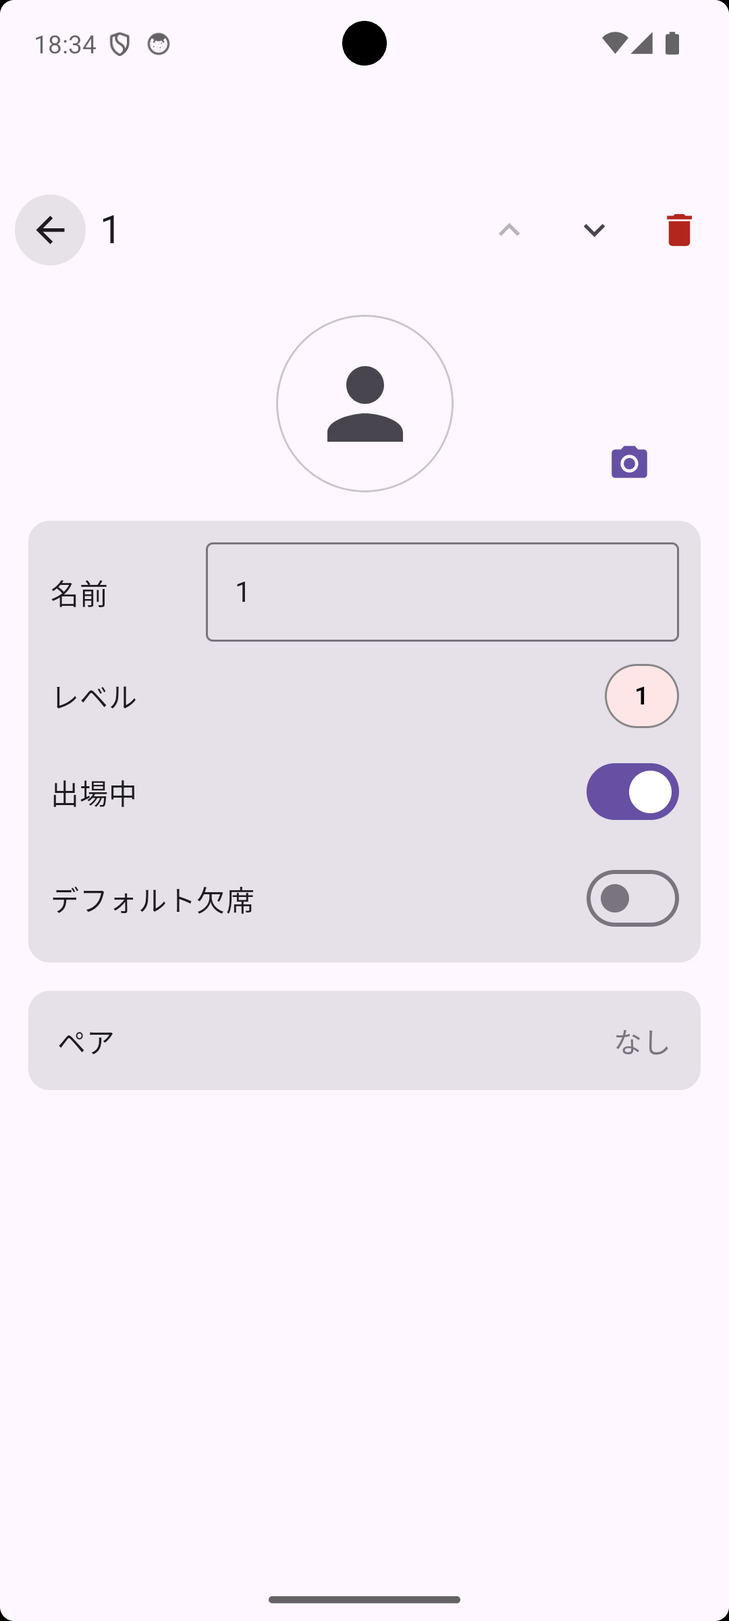
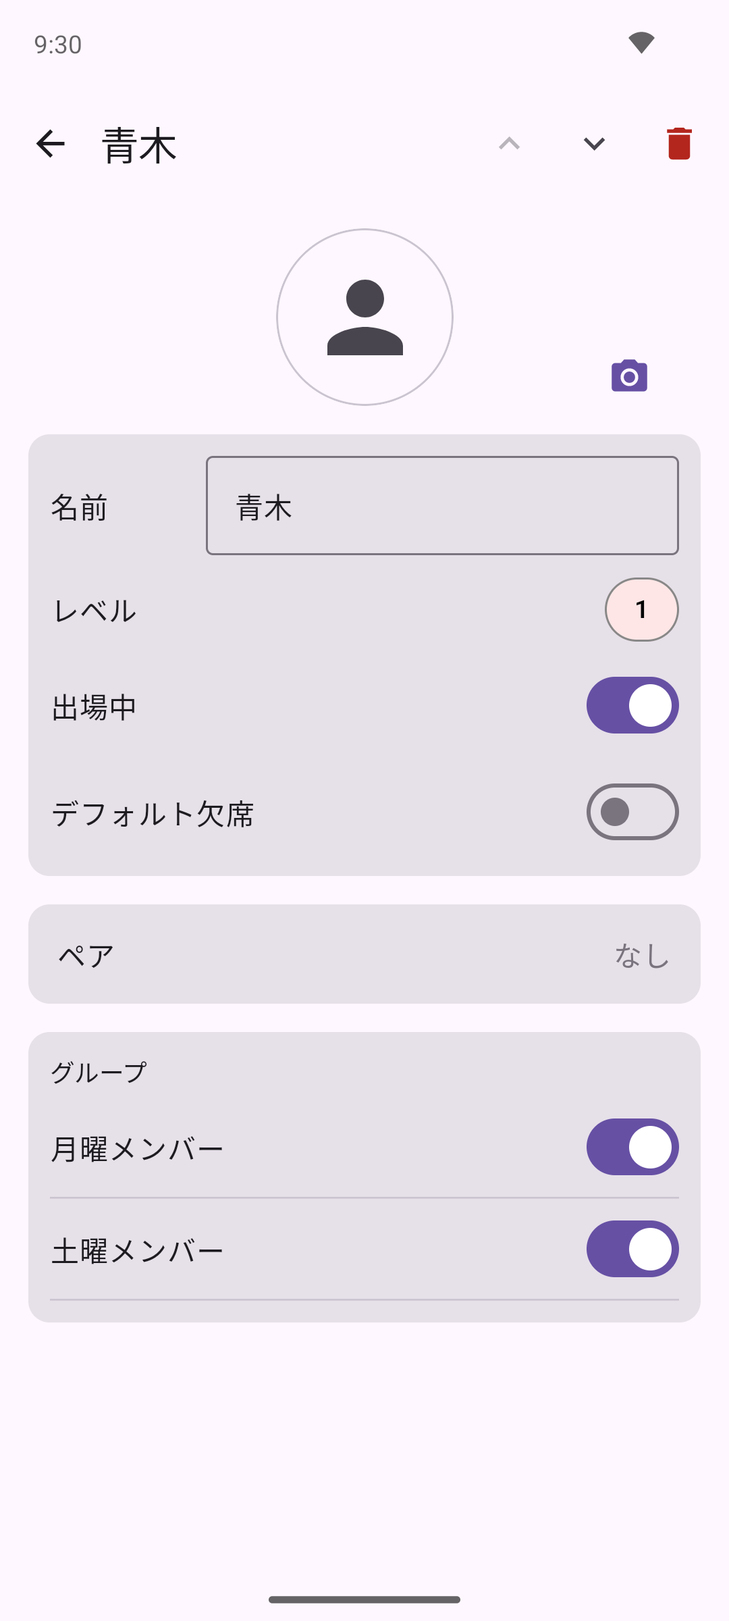
PairGen 1.2.26: プレイヤータブのヘルプをメンバー管理の見直しに合わせて書き直す
「メンバーを保存・読み込む」を「メンバーを登録・読み込む」に書き直し、iOS と同じく最後
（13章）に移した。シャッフルと並べ替えが11・12章に繰り上がる。

- 登録済みと未登録の違い（グループ所属＝登録・自動保存、未登録はリセットで消える、名前が
  濃い青、メニューの赤い点）の節を新設。1.2.25 以前のメンバーが Group1 に入ることも書いた
- ⋮ メニューを5項目（グループ読込・グループ管理・メンバー管理・書き出し・読み込み）に
- グループ管理を、統合後の1画面（登録するプレイヤー → グループ → 新しいグループの並び、
  行タップで登録、鉛筆で改名、ゴミ箱で削除）に合わせて書き直した
- メンバー管理（棚卸し）の節を新設。絞り込み、ゴミ箱アイコンでの個別削除、選択して一括削除、
  すべて削除
- ファイル操作を JSON から CSV に。列の意味、複数グループの書き方、表計算ソフトでの編集
  （Android では Google スプレッドシート）、読み込めない場合と警告だけ出る場合
- 出場状態の一括反転が下部バーのアイコンに移ったことを3章に、リセットで未登録のプレイヤーが
  失われることを2章に追記

逆引きは「メンバー・出場管理」と「メンバーの登録・保存」に分け、症状から引ける項目を
追加した（名前が濃い青、⋮ に赤い点、Group1 ができていた など）。ホームのメンバー管理の
告知から「登録済みと未登録」へリンクした。

スクリーンショットは14枚（差し替え11、新規3: players-unregistered / players-member-db /
players-member-select）。一覧の見出しが「無所属」のまま、下部バーに反転アイコンがない、
メニュー・グループ画面が旧版だったため、日本語名のデータで撮り直した。

diff --git a/players-tab.html b/players-tab.html
@@ -37,39 +37,43 @@
   <li><a href="#fixed-pair">8. 固定ペアを設定する</a></li>
   <li><a href="#status">9. 現在の出場状況を確認する</a></li>
   <li><a href="#pin">10. ピン留めで優先出場させる</a></li>
-  <li><a href="#save-load">11. メンバーを保存・読み込む</a>
+  <li><a href="#shuffle">11. 開始順をシャッフルする</a></li>
+  <li><a href="#reorder">12. 表示順を並べ替える</a></li>
+  <li><a href="#save-load">13. メンバーを登録・読み込む</a>
     <ul>
-      <li><a href="#groups">グループについて</a></li>
+      <li><a href="#registered">登録済みと未登録</a></li>
+      <li><a href="#groups">グループを作る・直す</a></li>
+      <li><a href="#member-db">メンバー管理（棚卸し）</a></li>
       <li><a href="#file-operations">ファイルへの書き出し・読み込み</a></li>
     </ul>
   </li>
-  <li><a href="#shuffle">12. 開始順をシャッフルする</a></li>
-  <li><a href="#reorder">13. 表示順を並べ替える</a></li>
 </ul>
 </nav>
 
 <h2 id="add-remove">1. プレイヤーを追加・削除する</h2>
 <p>プレイヤータブ下部の <code>＋</code> / <code>－</code> ボタンをタップするだけで、プレイヤーの人数を簡単に増減できます（最低4人）。追加されたプレイヤーには、初期状態で「1」「2」「3」…という数字がそのまま名前として割り当てられます。特定の1人だけを削除したい場合は、編集画面右上のゴミ箱アイコン、またはリストの各行右端のゴミ箱アイコンから削除できます。</p>
 <div class="ss"><img src="images/players-plusminus.png" alt="プレイヤータブ・+/- ボタン"></div>
-<div class="note">⚠ 編集画面・一覧どちらのゴミ箱アイコンも、保存済みのメンバーデータベースから該当プレイヤーを完全に削除します（写真も削除されます）。この操作は元に戻せません。あくまで今回だけ欠席させたい場合は、削除ではなく行右端のトグルで「休憩」状態にしてください。</div>
+<div class="note">⚠ 編集画面・一覧どちらのゴミ箱アイコンも、そのプレイヤーの登録を完全に削除します（写真も削除されます）。この操作は元に戻せません。あくまで今回だけ欠席させたい場合は、削除ではなく行右端のトグルで「休憩」状態にしてください。</div>
 <div class="tip">💡 画面上部のテキストフィールドに名前を入力して <code>追加</code> をタップすると、名前付きでプレイヤーを追加することもできます。カンマ区切りで複数名を一度に入力できます（例：<code>Alice, Bob, Carol, Dave</code>）。</div>
 <div class="tip">💡 プレイヤーの追加は、組み合わせ生成後や試合の途中からでも自由に行えます。飛び入り参加にもそのまま対応できます。</div>
 <div class="note">⚠ 一度組み合わせを生成すると、既存の組み合わせとの整合性を保つため、下部の <code>－</code> ボタンはその生成時点の人数より減らせなくなり、一覧各行のゴミ箱アイコンも無効化されます（<a href="game-tab.html#reset-scores">試合タブ右上の <code>↻</code> アイコンで試合結果をリセット</a>すると再び自由に増減できます）。編集画面右上のゴミ箱アイコンからの削除は、この制限に関わらず常に行えます。</div>
 <div class="tip">💡 編集画面右上のゴミ箱アイコンで削除すると、一覧に戻らずそのまま次のプレイヤー（末尾を削除した場合は前のプレイヤー）の編集画面に切り替わります。複数人まとめて削除したいときに便利です。</div>
 
 <h2 id="reset-players">2. プレイヤーのリセット</h2>
-<p>プレイヤータブ右上の <code>↻</code>（リセット）アイコンをタップすると、確認アラート「プレイヤーをリセット」が表示されます。<strong>リセット</strong> を選ぶと、現在登録されているプレイヤーと試合結果がすべて削除され、初期状態の4人にリセットされます。</p>
-<div class="note">⚠ この操作は元に戻せません。<code>⋮</code> メニューの <strong>保存</strong> で保存済みのメンバーデータベース自体は影響を受けませんが、現在のプレイヤーリストと試合結果は失われます。</div>
+<p>プレイヤータブ右上の <code>↻</code>（リセット）アイコンをタップすると、確認アラート「プレイヤーをリセット」が表示されます。<strong>リセット</strong> を選ぶと、現在のプレイヤーと試合結果がすべて削除され、初期状態の4人にリセットされます。</p>
+<div class="note">⚠ この操作は元に戻せません。グループに登録済みのメンバーは登録が残るので <strong>グループ読込</strong> で戻せますが、<strong>どのグループにも入れていないプレイヤーは保存されていないため、そのまま失われます</strong>。未登録のプレイヤーがいる場合は、確認アラートにその人数が表示されます。</div>
 <div class="tip">💡 試合タブの <code>↻</code> ボタン（ゲーム情報を削除）とは異なり、こちらはプレイヤー自体も削除されます。試合結果だけを消したい場合は試合タブのリセットをご利用ください。</div>
 
 <h2 id="rest-toggle">3. 出場状態を変更する（休憩・復帰）</h2>
 <p>プレイヤータブで各プレイヤー行右端のトグルが<strong>出場状態</strong>を表します。トグルをオフにすると休憩中となり、そのプレイヤーは次の組み合わせから除外されます。復帰するときはトグルをオンに戻してください。</p>
 <div class="ss"><img src="images/players-toggle.png" alt="出場状態トグル"></div>
+<div class="tip">💡 プレイヤータブ下部、シャッフルアイコンの左にあるトグルの形のアイコンをタップすると、<strong>全員の出場・休憩状態がまとめて反転</strong>します。「今日は少人数なので、一度全員を休憩にしてから来た人だけオンにする」といった使い方ができます。試合の途中でも使えます。</div>
 
 <h2 id="rename">4. 名前を変更する</h2>
 <p>プレイヤータブでプレイヤーの行をタップすると編集画面が開きます。<strong>名前</strong> フィールドを編集してください。フィールドをタップして入力中は、右端に表示される <code>×</code> ボタンで入力内容を一括消去できます。</p>
 <div class="ss"><img src="images/player-edit-main.png" alt="プレイヤー編集画面"></div>
 <div class="tip">💡 編集画面上部のツールバーにある <code>▲</code> / <code>▼</code> アイコンで、一覧に戻らずそのまま前後のプレイヤーの編集画面に切り替えられます。複数人まとめて名前を確認・変更したいときに便利です。</div>
+<div class="tip">💡 グループに登録済みのプレイヤーは、変更した名前が自動的に保存されます（<a href="#registered">登録済みと未登録</a>）。</div>
 
 <h2 id="level">5. レベルを設定する</h2>
 <p>各プレイヤーには <strong>1・2・3</strong> のレベルを設定できます。プレイヤータブのリスト左端にあるレベルバッジをタップするたびに 1→2→3→1 と切り替わります。編集画面の <strong>レベル</strong> からも変更できます。</p>
@@ -87,10 +91,10 @@
 <div class="tip">💡 試合の途中で新しく追加したプレイヤーは、W が 0 のままでも次の組み合わせで最優先に出場します。一度も出場していないプレイヤーは、待機回数に関わらず優先されるためです。</div>
 
 <h2 id="default-absent">7. デフォルト欠席を設定する</h2>
-<p>毎回欠席することが多いメンバーには、編集画面の <code>デフォルト欠席</code> をオンにしておくと、メンバーデータを読み込んだ際に自動的に休憩状態でリストに追加されます。</p>
+<p>毎回欠席することが多いメンバーには、編集画面の <code>デフォルト欠席</code> をオンにしておくと、グループを読み込んだ際に自動的に休憩状態でリストに追加されます。</p>
 
 <h2 id="fixed-pair">8. 固定ペアを設定する</h2>
-<p>編集画面の <strong>ペア</strong> セクションから、常に同じペアを組むプレイヤーを指定できます。固定されたペアはプレイヤー名の横に ♥ マーク付きで表示されます。</p>
+<p>編集画面の <strong>ペア</strong> セクションから、常に同じペアを組むプレイヤーを指定できます。固定されたペアはプレイヤー名の下に ♥ マーク付きで表示されます。</p>
 <div class="ss"><img src="images/players-pair.png" alt="固定ペア表示"></div>
 <div class="tip">💡 固定ペアはペアごとに色分けされるので、一覧や組み合わせ画面から一目で確認できます。</div>
 
@@ -106,78 +110,115 @@
 <div class="tip">💡 ピン留め中は行右端の出場状態トグルが無効化され、休憩状態に変更できません。休ませたい場合は、先にピンのアイコンをタップして解除してください。</div>
 <div class="tip">💡 ピン留めは保存されない一時的な指定です。アプリを再起動したり、メンバーを読み込み直したりするとリセットされます。</div>
 
-<h2 id="save-load">11. メンバーを保存・読み込む</h2>
-<p>プレイヤータブ左上の <code>⋮</code> メニューから以下の操作ができます。</p>
-<ul>
-  <li><strong>保存</strong> — 現在のプレイヤーリストをメンバーデータベースに保存</li>
-  <li><strong>読込</strong> — 保存したメンバーをグループ単位で読み込み</li>
-  <li><strong>グループ管理</strong> — グループの追加・削除・名前変更</li>
-  <li><strong>出場状態を反転</strong> — 全員の出場・休憩状態を一括反転</li>
-  <li><strong>ファイルに書き出し</strong> / <strong>ファイルから読み込み</strong> — メンバーデータベースをJSONファイルとして書き出し・読み込み（詳細は下記）</li>
-  <li><strong>DBを全消去</strong> — 保存したメンバーデータをすべて削除</li>
-</ul>
-<div class="ss"><img src="images/players-menu.png" alt="⋮ メニュー"></div>
-<div class="note">⚠ 「1」「2」のような数字だけの名前（名前を変更していない未命名のプレイヤー）は、<strong>保存</strong> をタップしてもメンバーデータベースには保存されません。誤って未命名のまま保存されてしまうのを防ぐためです。<strong>読込</strong> 実行時に見つかった場合も、読み込まずにデータベースから削除されます。名前を付けてから保存してください。</div>
-
-<h3 id="groups">グループについて</h3>
-<p>メンバーをグループに分類して保存しておくと、曜日や練習会ごとに異なるメンバーをすばやく読み込めます。</p>
-<p><strong>グループ名を作成する</strong> — <code>⋮</code> メニューの <strong>グループ管理</strong> を開き、<strong>グループ名</strong> フィールドに名前を入力して <code>追加</code> をタップします。</p>
-<div class="ss"><img src="images/players-group-add.png" alt="グループ管理画面でグループ名を入力"></div>
-<p><strong>プレイヤーにグループを設定する</strong> — プレイヤー編集画面の <strong>グループ</strong> セクションで、そのプレイヤーを所属させたいグループのトグルをオンにします（グループが1つも作成されていない場合、このセクションは表示されません）。</p>
-<div class="ss"><img src="images/players-group-assign.png" alt="プレイヤー編集画面のグループセクションでトグルをオン"></div>
-<p>グループを割り当てたら、<code>⋮</code> メニューの <strong>保存</strong> でメンバーデータベースに保存してください。</p>
-<div class="ss"><img src="images/players-group-select.png" alt="読み込むグループの選択画面"></div>
-
-<h3 id="file-operations">ファイルへの書き出し・読み込み</h3>
-<p><code>⋮</code> メニューの <strong>ファイルに書き出し</strong> / <strong>ファイルから読み込み</strong> から、メンバーデータベース全体（すべてのグループ・すべてのプレイヤー）をJSONファイルとして書き出したり、書き出したファイルから読み込んだりできます。機種変更時のデータ移行や、パソコンなどでファイルを直接編集して一括登録したい場合に利用できます。</p>
-<ul>
-  <li><strong>ファイルに書き出し</strong> — メンバーデータベース全体を <code>pairgen.json</code>（ファイル名は保存時に変更可能）として書き出し、保存先を選択する画面が開きます（端末の「ダウンロード」フォルダやGoogleドライブなど、標準のファイル選択画面から選べます）。</li>
-  <li><strong>ファイルから読み込み</strong> — JSONファイルを選択すると内容を確認するダイアログが表示され、<strong>置き換え</strong> を選ぶと保存済みのメンバーデータベースと現在のプレイヤーリストが選択したファイルの内容に<strong>すべて置き換わります</strong>（既存データとのマージは行われません）。</li>
-</ul>
-<div class="note">⚠ 読み込んだファイルのJSONに構文の誤りや項目の不足がある場合は、「インポートに失敗しました」というエラーメッセージが表示され、読み込みは行われません。</div>
-
-<h4>pairgen.json の中身について</h4>
-<p><code>pairgen.json</code> はただのテキストファイルなので、パソコン・スマートフォンのテキストエディタアプリ（メモ帳など）や、JSONを編集できるアプリで開いて直接編集できます。内容は次のような形式です。</p>
-<div class="tip">💡 ファイル名は <code>pairgen.json</code> がデフォルトですが、拡張子が <code>.json</code> であれば名前は自由に変更できます（読み込み時もファイル名は問いません）。</div>
-<pre><code>{
-  "groups": [
-    "月曜メンバー",
-    "土曜メンバー"
-  ],
-  "players": [
-    {
-      "name": "田中",
-      "groups": [
-        "月曜メンバー"
-      ]
-    },
-    {
-      "name": "鈴木",
-      "groups": [
-        "月曜メンバー",
-        "土曜メンバー"
-      ]
-    },
-    {
-      "name": "佐藤",
-      "groups": []
-    }
-  ]
-}</code></pre>
-<p>JSONでは空白・改行の入れ方は自由なので、上記と多少違う書き方をしても（1行にまとめる、インデント幅を変えるなど）、キー名と値さえ合っていれば問題なく読み込めます。</p>
-<ul>
-  <li><strong>groups</strong> — グループ名の一覧（配列）</li>
-  <li><strong>players</strong> — プレイヤーの一覧（配列）。1人につき <strong>name</strong>（名前）と <strong>groups</strong>（所属グループ名。<code>groups</code> の一覧に含まれる名前を指定。どのグループにも属さない場合は空の配列 <code>[]</code>）を指定</li>
-</ul>
-<div class="tip">💡 表計算ソフトなどでメンバー一覧を管理している場合も、この形式に沿って書き出せば読み込ませることができます。</div>
-
-<h2 id="shuffle">12. 開始順をシャッフルする</h2>
+<h2 id="shuffle">11. 開始順をシャッフルする</h2>
 <p>組み合わせはプレイヤーリストの並び順をもとに決まります。同じメンバーで練習を重ねていると、試合タブの <code>↻</code> でゲームを初期化するたびに、毎回同じ組み合わせから始まってしまうことがあります。プレイヤータブ下部のシャッフルアイコン（🔀）をタップすると、プレイヤーの名前・レベル・出場設定などをリスト内でランダムに入れ替え、次の組み合わせの偏りを防げます。</p>
 <div class="tip">💡 シャッフルは、まだ1回も組み合わせを生成していない状態（初期化直後）でのみ実行できます。試合を始めた後にシャッフルしたい場合は、先に試合タブの <code>↻</code> リセットボタンで初期化してください。</div>
 
-<h2 id="reorder">13. 表示順を並べ替える</h2>
+<h2 id="reorder">12. 表示順を並べ替える</h2>
 <p>組み合わせはプレイヤーリストの並び順をもとに決まります。各行の左端にある並べ替えハンドル（<code>⋮⋮</code>）を長押ししてドラッグすると、その場でプレイヤーの表示順を入れ替えられます。</p>
 <div class="tip">💡 指を離すとその位置で確定します。一覧に戻る必要はありません。</div>
+
+<h2 id="save-load">13. メンバーを登録・読み込む</h2>
+<p>いつも参加するメンバーは<strong>グループに登録</strong>しておくと、次回から名前を入力し直さずに読み込めます。登録した内容は自動的に端末に保存されます。</p>
+<p>プレイヤータブ左上の <code>⋮</code> メニューから、次の操作ができます。</p>
+<ul>
+  <li><strong>グループ読込</strong> — 登録したメンバーをグループ単位で読み込み</li>
+  <li><strong>グループ管理</strong> — メンバーの登録、グループの作成・名前変更・削除</li>
+  <li><strong>メンバー管理</strong> — 登録されているメンバーの一覧・整理・全消去</li>
+  <li><strong>ファイルに書き出し</strong> / <strong>ファイルから読み込み</strong> — メンバー一覧を CSV ファイルとして書き出し・読み込み（詳細は下記）</li>
+</ul>
+<div class="ss"><img src="images/players-menu.png" alt="⋮ メニュー"></div>
+<div class="tip">💡 未登録のプレイヤーがいるときは、<code>⋮</code> アイコンに赤い点が付き、メニューの <strong>グループ管理</strong> に人数が表示されます（例：<code>グループ管理 (3)</code>）。</div>
+
+<h3 id="registered">登録済みと未登録</h3>
+<p>プレイヤーは<strong>登録済み</strong>と<strong>未登録</strong>の2種類に分かれます。違いは「どこかのグループに入っているかどうか」だけです。</p>
+<ul>
+  <li><strong>登録済み</strong>（どれかのグループに所属） — 名前・レベル・所属グループなどの変更が<strong>自動的に保存</strong>されます。リセットしても登録は残り、いつでも読み込めます</li>
+  <li><strong>未登録</strong>（どのグループにも入っていない） — その日限りの扱いです。保存されないので、リセットすると消えます</li>
+</ul>
+<p>未登録のプレイヤーは、一覧で<strong>名前が濃い青色</strong>で表示されます。ゲストや体験参加の人をその場で追加しても、登録メンバーが増え続けないようにするための仕組みです。</p>
+<div class="ss"><img src="images/players-unregistered.png" alt="未登録のプレイヤーは名前が濃い青色になる"></div>
+<div class="tip">💡 以前のバージョンにあった <strong>保存</strong> メニューはなくなりました。登録済みのメンバーは編集するたびに自動保存されるので、保存し忘れる心配がありません。</div>
+<div class="tip">💡 v1.2.25 以前にグループに入れずに保存していたメンバーは、アップデート後に「Group1」というグループに入ります。そのままだと全員が未登録になってしまうためです。グループ名は <a href="#groups">グループ管理</a> で変更できます。</div>
+<div class="note">⚠ 数字だけの名前（「1」「2」など、名前を変更していないプレイヤー）は、グループに入れても登録されません。誤って未命名のまま保存されるのを防ぐためです。名前を付けてから登録してください。</div>
+
+<h3 id="groups">グループを作る・直す</h3>
+<p>メンバーをグループに分けておくと、曜日や練習会ごとに異なる顔ぶれをすばやく読み込めます。<code>⋮</code> メニューの <strong>グループ管理</strong> で、登録もグループの手入れも行います。</p>
+<div class="ss"><img src="images/players-group-add.png" alt="グループ管理画面"></div>
+<p><strong>メンバーを登録する</strong> — 画面上部の「登録するプレイヤー」に、まだ登録していないプレイヤーが並びます。最初は全員にチェックが入っているので、登録したくない人（その日だけのゲストなど）をタップしてチェックを外します。次に、すぐ下のグループ一覧から入れたいグループ名をタップすると、チェックした人がそのグループに登録されます。</p>
+<p><strong>グループを作る</strong> — 一番下の <strong>新しいグループ</strong> 欄に名前を入力して <code>追加</code> をタップします。<strong>グループが作られるだけで、プレイヤーの登録は行われません。</strong>続けて、グループ一覧に加わったグループ名をタップして登録してください。</p>
+<p><strong>グループ名を変える</strong> — グループ行の鉛筆アイコン（✏）をタップします。</p>
+<p><strong>グループを削除する</strong> — グループ行のゴミ箱アイコン（🗑）をタップします。</p>
+<div class="note">⚠ そのグループにしか入っていないメンバーがいる場合、グループを削除すると、そのメンバーは登録が外れ、保存されていた情報が削除されます（写真も一緒に消えます）。削除前に確認が表示されます。</div>
+<p><strong>1人ずつ設定する</strong> — プレイヤー編集画面の <strong>グループ</strong> セクションでも、所属グループのトグルを切り替えられます（グループが1つもないときは、このセクションは表示されません）。</p>
+<div class="ss"><img src="images/players-group-assign.png" alt="プレイヤー編集画面のグループセクション"></div>
+<div class="note">⚠ 最後のグループのトグルをオフにすると登録が外れ、保存されていた情報が削除されます（写真も消えます）。実行前に確認が表示されます。</div>
+<p><strong>読み込む</strong> — <code>⋮</code> メニューの <strong>グループ読込</strong> から、読み込みたいグループを選びます。<strong>全部</strong> を選ぶと、登録されている全メンバーを読み込みます。</p>
+<div class="ss"><img src="images/players-group-select.png" alt="読み込むグループの選択"></div>
+<div class="note">⚠ グループを読み込むと、現在のプレイヤーリストと試合結果は読み込んだ内容に置き換わります。未登録のプレイヤーがいる場合、その人たちは保存されていないため失われます。</div>
+
+<h3 id="member-db">メンバー管理（棚卸し）</h3>
+<p><code>⋮</code> メニューの <strong>メンバー管理</strong> を開くと、登録されている全メンバーを一覧できます。グループをまたいで「誰が登録されているか」を確認できる唯一の画面です。</p>
+<div class="ss"><img src="images/players-member-db.png" alt="メンバー管理画面"></div>
+<p>一覧は<strong>最後に試合に出た日が古い順</strong>（記録がない人が先頭）に並びます。各行に名前・最終参加日・所属グループが表示されます。</p>
+<p><strong>絞り込み</strong> — 上部の <strong>絞り込み</strong> をタップして、しばらく参加していないメンバーだけを表示できます。</p>
+<ul>
+  <li><strong>全部</strong></li>
+  <li><strong>参加記録なし</strong></li>
+  <li><strong>3ヶ月以上参加なし</strong> ／ 6ヶ月 ／ 1年</li>
+  <li>その下の <strong>グループ</strong> で、グループでの絞り込みも併用できます</li>
+</ul>
+<div class="tip">💡 最終参加日は v1.2.26 から記録を始めたので、それ以前から登録しているメンバーは「参加記録なし」に入ります。期間での絞り込みには含まれません。</div>
+<p><strong>削除する</strong> — 行右端のゴミ箱アイコンで1人ずつ削除できます。まとめて消したいときは右上の <strong>選択</strong> をタップし、対象にチェックを付けてから下部の <strong>選択した項目を削除</strong> をタップします。</p>
+<div class="ss"><img src="images/players-member-select.png" alt="メンバー管理の選択モード"></div>
+<div class="note">⚠ 削除したメンバーの写真も一緒に消えます。そのメンバーが現在のプレイヤーリストにいる場合、その日の一覧からは消えませんが、登録は外れます（試合の途中で人がいなくなるのを防ぐためです）。</div>
+<p><strong>すべて削除</strong> — 一覧の一番下の <strong>すべて削除</strong> で、登録されている全メンバーと写真を削除し、現在のプレイヤーリストも4人にリセットします。</p>
+<div class="note">⚠ この操作は元に戻せません。</div>
+
+<h3 id="file-operations">ファイルへの書き出し・読み込み</h3>
+<p><code>⋮</code> メニューの <strong>ファイルに書き出し</strong> / <strong>ファイルから読み込み</strong> から、登録されているメンバー全員（すべてのグループ）を <strong>CSV ファイル</strong>として書き出したり、書き出したファイルから読み込んだりできます。機種変更時のデータ移行や、表計算ソフトで一括編集したい場合に利用できます。</p>
+<ul>
+  <li><strong>ファイルに書き出し</strong> — 登録されているメンバー全員を <code>pairgen.csv</code>（ファイル名は保存時に変更可能）として書き出し、保存先を選択する画面が開きます（端末の「ダウンロード」フォルダやGoogleドライブなど、標準のファイル選択画面から選べます）</li>
+  <li><strong>ファイルから読み込み</strong> — ファイルを選ぶと内容を確認するダイアログが表示され、<strong>置き換え</strong> を選ぶと、登録されているメンバーと現在のプレイヤーリストが、選択したファイルの内容に<strong>すべて置き換わります</strong>（既存データとのマージは行われません）</li>
+</ul>
+<div class="tip">💡 v1.2.25 以前に書き出した JSON ファイル（<code>pairgen.json</code>）も、そのまま読み込めます。書き出しは CSV のみです。</div>
+
+<h4>表計算ソフトで編集する</h4>
+<p>書き出した <code>pairgen.csv</code> は、Excel・Google スプレッドシート・Numbers などでそのまま開けます。スマートフォンだけで編集したい場合は、Google ドライブに保存して Google スプレッドシートで開き、編集後に「ファイル」→「ダウンロード」→「カンマ区切り形式（.csv）」で保存し直してから、<strong>ファイルから読み込み</strong> で選んでください。</p>
+<div class="note">⚠ 表計算ソフトは、入力された値を数字や日付として解釈して表示を変えることがあります。たとえばグループ名を <code>2024</code> や <code>1/5</code> のようにしていると、書き出したときに別の形（<code>2024/01/05</code> など）に変わってしまう場合があります。グループ名や名前に数字だけ・日付に見える文字列を使っている場合は、書き出したあとの内容を確認してください。セルの書式を「テキスト」にしておくと防げます。</div>
+
+<h4>pairgen.csv の中身について</h4>
+<p>CSV はただのテキストファイルなので、表計算ソフトやテキストエディタで開いて直接編集できます。内容は次のような形式です。</p>
+<pre><code>Name,Level,Groups,AbsentByDefault
+田中,1,月曜メンバー,false
+鈴木,2,月曜メンバー;土曜メンバー,false
+佐藤,1,土曜メンバー,true</code></pre>
+<p><strong>1行目はヘッダ行</strong>で、列の名前を表します。列名は英語で固定です。</p>
+<ul>
+  <li><strong>Name</strong> — 名前。<strong>この列は必須です</strong>。名前が空の行は読み込まれません</li>
+  <li><strong>Level</strong> — レベル。アプリの表示と同じ <code>1</code>・<code>2</code>・<code>3</code> で指定します。空欄の場合は <code>1</code> になります</li>
+  <li><strong>Groups</strong> — 所属グループ名。複数のグループに入れる場合は<strong>セミコロン（<code>;</code>）で区切ります</strong>。空欄の場合は <code>Group1</code> というグループに入ります</li>
+  <li><strong>AbsentByDefault</strong> — デフォルト欠席。<code>true</code> にすると、読み込んだ時点で休憩状態になります。空欄の場合は <code>false</code>（出場）です</li>
+</ul>
+<div class="tip">💡 列の順序は自由です（ヘッダの名前で判断します）。アプリが使わない列（メモ欄など）を足しても、そのまま無視されるので問題ありません。</div>
+<div class="tip">💡 グループの一覧は、各プレイヤーの <strong>Groups</strong> 欄に書かれた名前から自動的に作られます。ファイルにグループの一覧を書く欄はありません。</div>
+<div class="note">⚠ 読み込むと、アプリに登録されているグループの一覧はファイルの内容で<strong>置き換わります</strong>。ファイルに出てこないグループ名は失われます。</div>
+
+<h4>読み込めなかった場合</h4>
+<p>次の場合は読み込みを中止し、理由を表示します。</p>
+<ul>
+  <li>文字コードを判別できない場合 — UTF-8 で保存し直してください</li>
+  <li><strong>Name</strong> 列が見つからない場合 — 見つかった列名を併せて表示します</li>
+  <li>引用符（<code>"</code>）が閉じていない場合 — 該当する行番号を表示します</li>
+  <li>読み込めるプレイヤーが1人もいない場合 — 読み込みは全置換のため、そのまま実行すると保存済みのメンバーがすべて消えてしまいます</li>
+</ul>
+<p>次の場合は読み込みを続け、確認ダイアログに件数を表示します。内容に納得できなければキャンセルしてください。</p>
+<ul>
+  <li>名前が空の行を除外した</li>
+  <li><code>1</code>〜<code>3</code> 以外のレベルを <code>1</code> にした</li>
+  <li>解釈できない <strong>AbsentByDefault</strong> の値を「出場」として扱った</li>
+</ul>
+<div class="tip">💡 Excel で編集して保存し直すと、文字コードが Shift_JIS や UTF-16 に変わることがあります。PairGen はこれらも読み込めるので、通常はそのまま取り込めます。</div>
 
 </body>
 </html>

diff --git a/reverse-lookup.html b/reverse-lookup.html
@@ -21,17 +21,34 @@
   <li><a href="players-tab.html#add-remove">試合の途中でも人数を増やしたり減らしたりしたい（飛び入り参加・途中退出）</a></li>
   <li><a href="players-tab.html#add-remove">組み合わせ生成後、プレイヤー数を減らせない（－ボタンやゴミ箱アイコンが効かない）</a></li>
   <li><a href="players-tab.html#rename">プレイヤーの名前を変えたい</a></li>
-  <li><a href="players-tab.html#fixed-pair">特定の2人を毎回ペアにしたい</a></li>
   <li><a href="players-tab.html#rest-toggle">特定の人を一時的に休ませたい（トイレ休憩など）</a></li>
+  <li><a href="players-tab.html#rest-toggle">全員の出場・休憩をまとめて切り替えたい</a></li>
   <li><a href="players-tab.html#default-absent">常連が休みがちで、毎回チェックを外すのが面倒</a></li>
-  <li><a href="players-tab.html#pin">早く帰ってしまうメンバーを優先的に試合に入れたい</a></li>
   <li><a href="players-tab.html#status">誰が今試合中か、休憩中かを一目で知りたい</a></li>
-  <li><a href="game-tab.html#split-view">試合中にレベルや出場・休憩を変えるのに、タブを行き来するのが面倒</a></li>
-  <li><a href="players-tab.html#save-load">名簿を保存して次回も使い回したい</a></li>
-  <li><a href="players-tab.html#groups">曜日や練習会ごとにメンバーを分けて管理したい</a></li>
-  <li><a href="players-tab.html#file-operations">機種変更や引っ越しでプレイヤー・グループのデータを移行したい</a></li>
-  <li><a href="players-tab.html#file-operations">プレイヤー一覧をパソコンなどでまとめて編集したい</a></li>
+  <li><a href="players-tab.html#pin">早く帰ってしまうメンバーを優先的に試合に入れたい</a></li>
   <li><a href="players-tab.html#reorder">組み合わせの優先順位を来た順にしたい</a></li>
+  <li><a href="players-tab.html#fixed-pair">特定の2人を毎回ペアにしたい</a></li>
+  <li><a href="game-tab.html#split-view">試合中にレベルや出場・休憩を変えるのに、タブを行き来するのが面倒</a></li>
+</ul>
+
+<h2>メンバーの登録・保存</h2>
+<ul>
+  <li><a href="players-tab.html#save-load">名簿を保存して次回も使い回したい</a></li>
+  <li><a href="players-tab.html#groups">メンバーをグループに登録したい・グループから外したい</a></li>
+  <li><a href="players-tab.html#registered">今日だけ来たゲストを、名簿に残さず追加したい</a></li>
+  <li><a href="players-tab.html#registered">名前が濃い青で表示されているプレイヤーがいる</a></li>
+  <li><a href="players-tab.html#save-load">メニューアイコン（⋮）に赤い点が付いている</a></li>
+  <li><a href="players-tab.html#registered">名前やレベルを直したのに、次に読み込むと元に戻っている</a></li>
+  <li><a href="players-tab.html#registered">リセットしたらプレイヤーが消えてしまった</a></li>
+  <li><a href="players-tab.html#registered">アップデートしたら「Group1」というグループができていた</a></li>
+  <li><a href="players-tab.html#groups">曜日や練習会ごとにメンバーを分けて管理したい</a></li>
+  <li><a href="players-tab.html#groups">グループ名を変えたい・グループを消したい</a></li>
+  <li><a href="players-tab.html#member-db">登録されているメンバーを一覧で見たい</a></li>
+  <li><a href="players-tab.html#member-db">しばらく来ていないメンバーを整理したい</a></li>
+  <li><a href="players-tab.html#member-db">保存したメンバーを全部消してやり直したい</a></li>
+  <li><a href="players-tab.html#file-operations">機種変更や引っ越しでプレイヤー・グループのデータを移行したい</a></li>
+  <li><a href="players-tab.html#file-operations">プレイヤー一覧を表計算ソフトなどでまとめて編集したい</a></li>
+  <li><a href="players-tab.html#file-operations">書き出したファイルを読み込めない・エラーが出る</a></li>
 </ul>
 
 <h2>レベル・コート設定</h2>

diff --git a/home.html b/home.html
@@ -121,7 +121,7 @@
 
 <h2>バージョン 1.2.26 更新内容（v1.2.25 からの変更点）</h2>
 <div class="note">✨ <strong>組み合わせの作り方は v1.2.21 で全面的に生まれ変わりました。</strong>そのラウンドに出る全員をまとめて見たうえで、同じ相手と組む回数がいちばん少なくなる分け方を選びます。「特定の人といつまでも組めない」「同じ人とばかり組んでしまう」といった偏りが大幅に減り、直前のラウンドと同じペアが続けてできることもなくなりました。連続して出ている人から順に休みに回るので、出場機会も均等になります。</div>
-<div class="note">✨ <strong>メンバーの管理方法が大きく変わりました。</strong>グループに入れたメンバーは<strong>自動で保存</strong>されます。グループに入れていないプレイヤーは「その日だけ」の扱いになり、リセットすると消えます。1.2.25 以前にグループに入れずに保存していたメンバーは、「Group1」というグループに入ります（名前はあとから変更できます）。</div>
+<div class="note">✨ <strong>メンバーの管理方法が大きく変わりました。</strong>グループに入れたメンバーは<strong>自動で保存</strong>されます。グループに入れていないプレイヤーは「その日だけ」の扱いになり、リセットすると消えます。1.2.25 以前にグループに入れずに保存していたメンバーは、「Group1」というグループに入ります（名前はあとから変更できます）。詳しくは<a href="players-tab.html#registered">プレイヤータブ「登録済みと未登録」</a>をご覧ください。</div>
 <ul>
   <li>メンバーの保存を見直しました。<strong>グループに入れたメンバーは、名前やレベルを変えるたびに自動で保存されます。</strong>「保存」を押し忘れて編集が戻ってしまうことがなくなりました（メニューの「保存」は廃止しました）</li>
   <li>グループに入れていないプレイヤーは「その日だけ」の扱いになり、保存されません。ゲストや体験参加の人をその場で追加しても、メンバー一覧が増え続けません。未登録の人は名前が濃い青色で表示され、メニューアイコンに赤い点が付きます</li>
